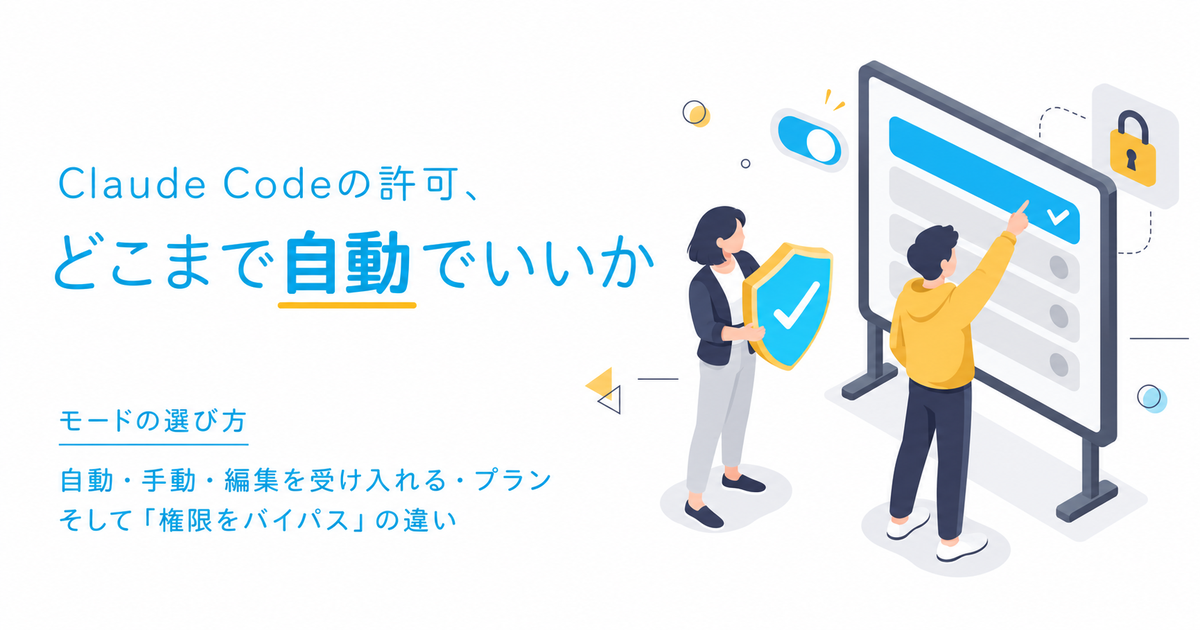
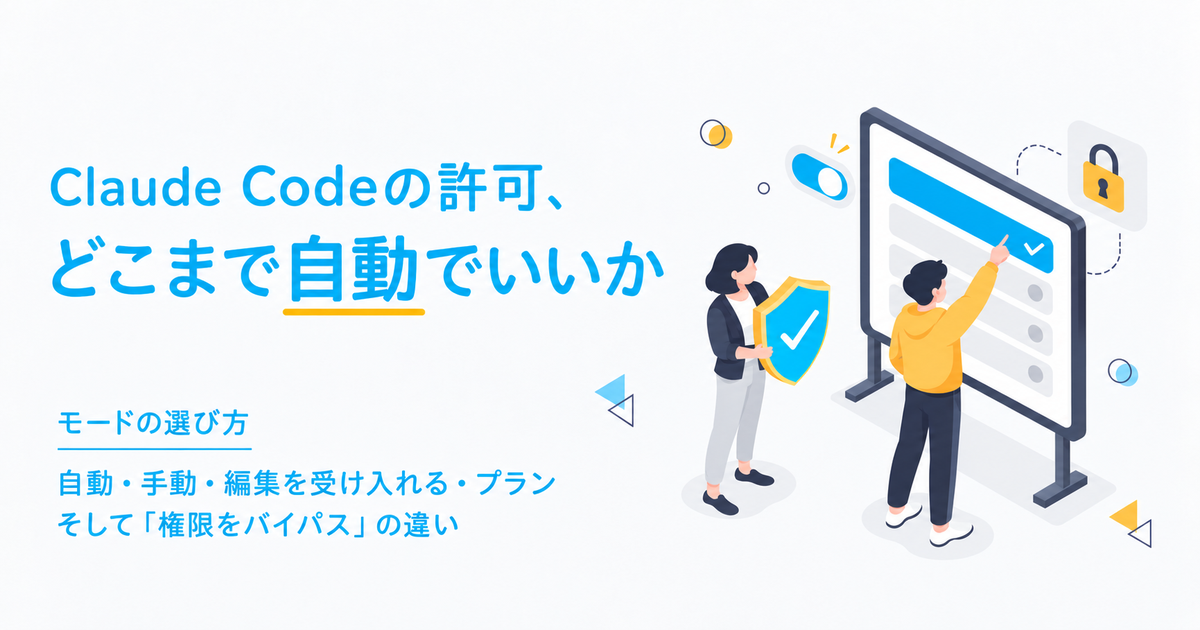
chore: no.71 アイキャッチを確定版（タイトルを太くした版）に差し替え

diff --git a/knowledge/eyecatch-rules.md b/knowledge/eyecatch-rules.md
@@ -35,7 +35,7 @@
 - 最後の1行：「画像内の日本語テキストは、上に指定した文言だけにしてください。」
 
 **改善候補（ユーザーの了承待ち。型にはまだ入れない）**
-- no.71：ユーザー所感「タイトル感が薄い」（修正なしで採用）。参考画像どおりの細身の書体で、タイトルの2行目も細く出たため。次に同じ系統の参考画像のときは、タイトル2行目だけ「中くらいの太さ」にする案がある
+- no.71：ユーザー所感「タイトル感が薄い」。参考画像どおりの細身の書体で、タイトルも細く出たため。**確定版はユーザーがCodexでタイトルを太くして作り直した**（`images/eyecatch_0071.png`・9/28 15:54）。次に細身の書体の参考画像のときも、タイトルは太め（中〜太）にする案がある（型に入れるかはユーザー判断）
 
 ## マスコットキャラクターは使用しない（2026-07-14〜）
 

diff --git a/operations/structure-drafts/claude-code-permission-auto-mode.md b/operations/structure-drafts/claude-code-permission-auto-mode.md
@@ -220,7 +220,7 @@ Claude Codeの許可は、非エンジニアなら「自動」のままでよい
 
 ## アイキャッチ
 
-`images/eyecatch_0071.png`（2026-09-28・参考画像を添付しただけ・GPTの1回目をそのまま採用。プロンプト：`operations/structure-drafts/claude-code-permission-modes-eyecatch-prompt.md`）。記事の no. は71
+`images/eyecatch_0071.png`（2026-09-28・参考画像を添付しただけのプロンプトから生成。確定版はユーザーがCodexでタイトルを太くして作り直したもの〔15:54〕。プロンプト：`operations/structure-drafts/claude-code-permission-modes-eyecatch-prompt.md`）。記事の no. は71
 
 ## 画像
 
